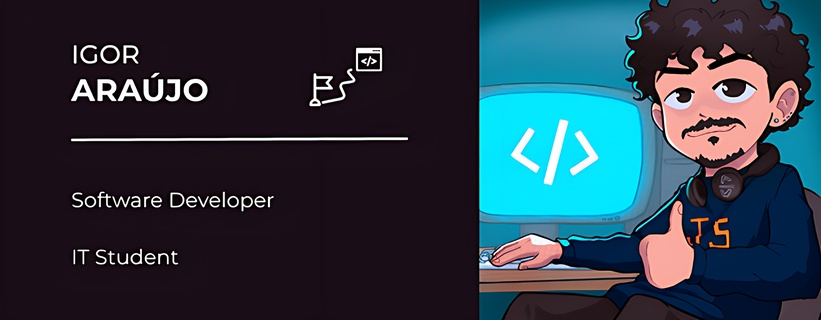
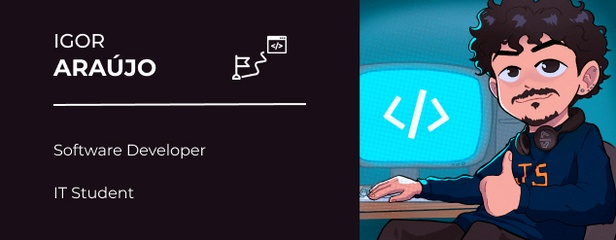
image

diff --git a/README.md b/README.md
@@ -1,6 +1,6 @@
 <h1 align="center">Hello, I'm Igor Araújo 👋🏼</h1> 
 
-![Cover software engineer Igor Araújo](/cover.jpeg)
+![Cover software engineer Igor Araújo](/cover.jpg)
 
 I have always been passionate about technology, which led me to dive headfirst into the world of software development. I have a special fondness for front-end development, where I use **Svelte** and **React.js** to create dynamic and engaging experiences. Although my focus is primarily on the front-end, I am starting to explore the world of back-end development, learning and challenging myself at every step. I am always in search of new knowledge, believing that curiosity is the fuel that drives us forward.
 
